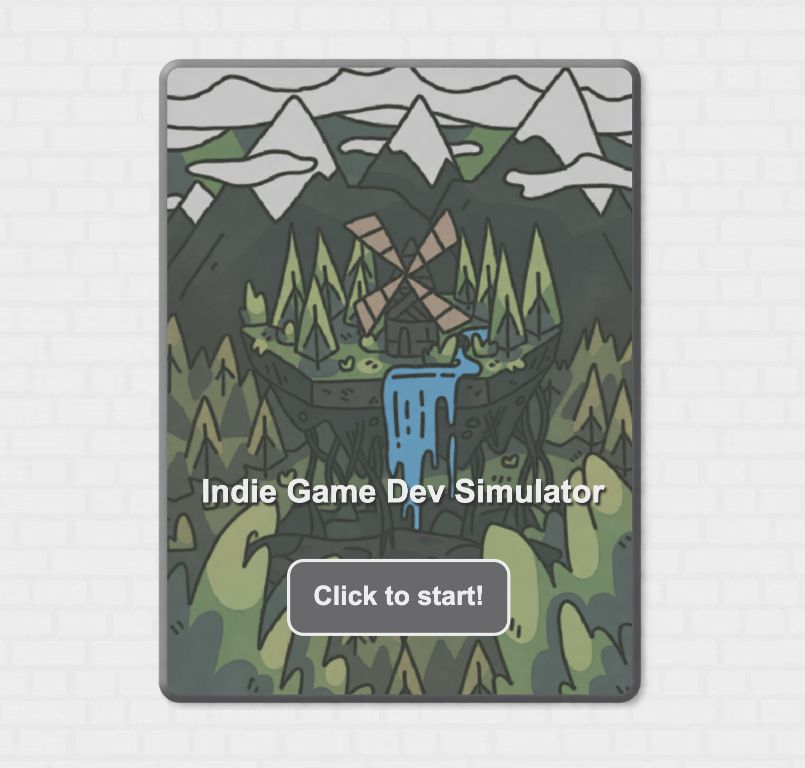
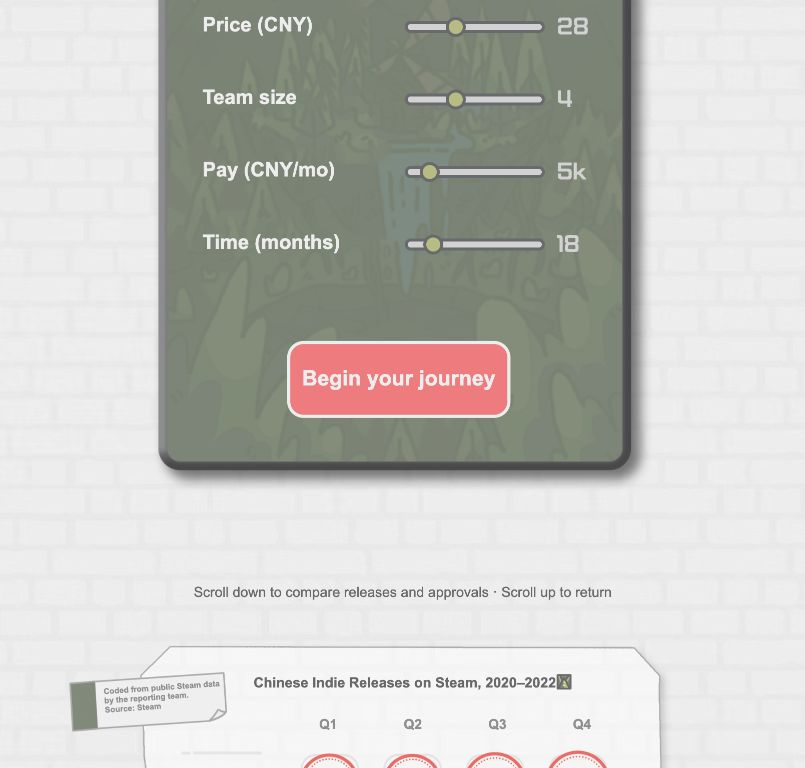
jiejuechongyingwenti

diff --git a/game-portfolio/js/game.js b/game-portfolio/js/game.js
@@ -5,6 +5,7 @@ $(document).ready(function () {
   var swiper = new Swiper(".calculator", {
     allowTouchMove: false,
     effect: "fade",
+    fadeEffect: { crossFade: true },
   });
   // 第1页
   $("#slide1-btn").on("mouseover", function () {

diff --git a/game-portfolio/README.md b/game-portfolio/README.md
@@ -7,7 +7,7 @@ This standalone game was extracted from `INDIEGAMEDEVELOPER/index.html`. The lat
 ## Files
 - `index.html`: the four original game screens, with English text layers.
 - `css/english.css`: vertical centering and English text sizing.
-- `js/game.js`: original game logic; only button image paths changed.
+- `js/game.js`: original game logic; English button image paths and cross-fade rendering enabled to prevent transparent backgrounds exposing previous slides.
 - `js/data.js`: 29 translated events; all event values and 10,960 game records unchanged.
 - `images/intro-background.png`: the complete text-free opening image supplied by the author, with a separate HTML English title. No title-area patch is used on this screen.
 - `images/*-en.png`: text-removal backgrounds for the remaining English screens.
@@ -68,7 +68,7 @@ Using this repository's data, salary CNY 5,000/month × one person × 18 months 
 These are direct recalculations with controlled thresholds, not new controls in the game. The playable version still uses 100 plus the three event values. Matching these examples strongly supports the supplied explanation but does not establish who collected the data.
 
 ## Verification
-English titles, parameters, event cards, both endings and replay were checked in desktop and 390-pixel-wide browser views. Vertical margins match and the narrow viewport has no horizontal page overflow. Data and event values were compared with the originals; the game script differs only in English button asset paths.
+English titles, parameters, event cards, both endings and replay were checked in desktop and 390-pixel-wide browser views. Vertical margins match and the narrow viewport has no horizontal page overflow. Data and event values were compared with the originals; the game script changes English button asset paths and enables cross-fade so inactive slides become fully transparent. Calculations and interaction order are unchanged.
 
 
 ## Extracted scroll comparison
